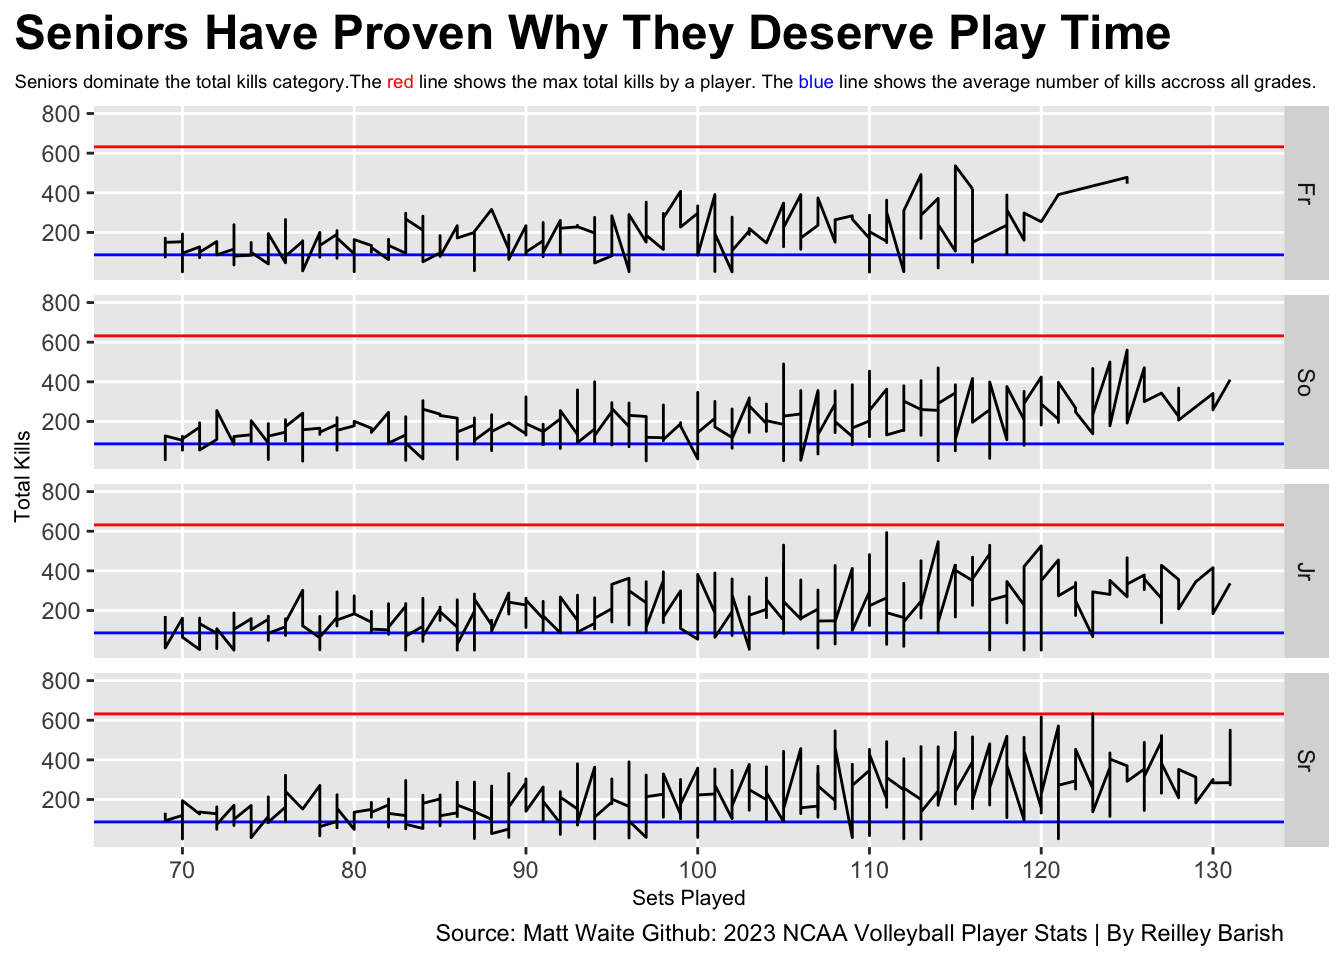
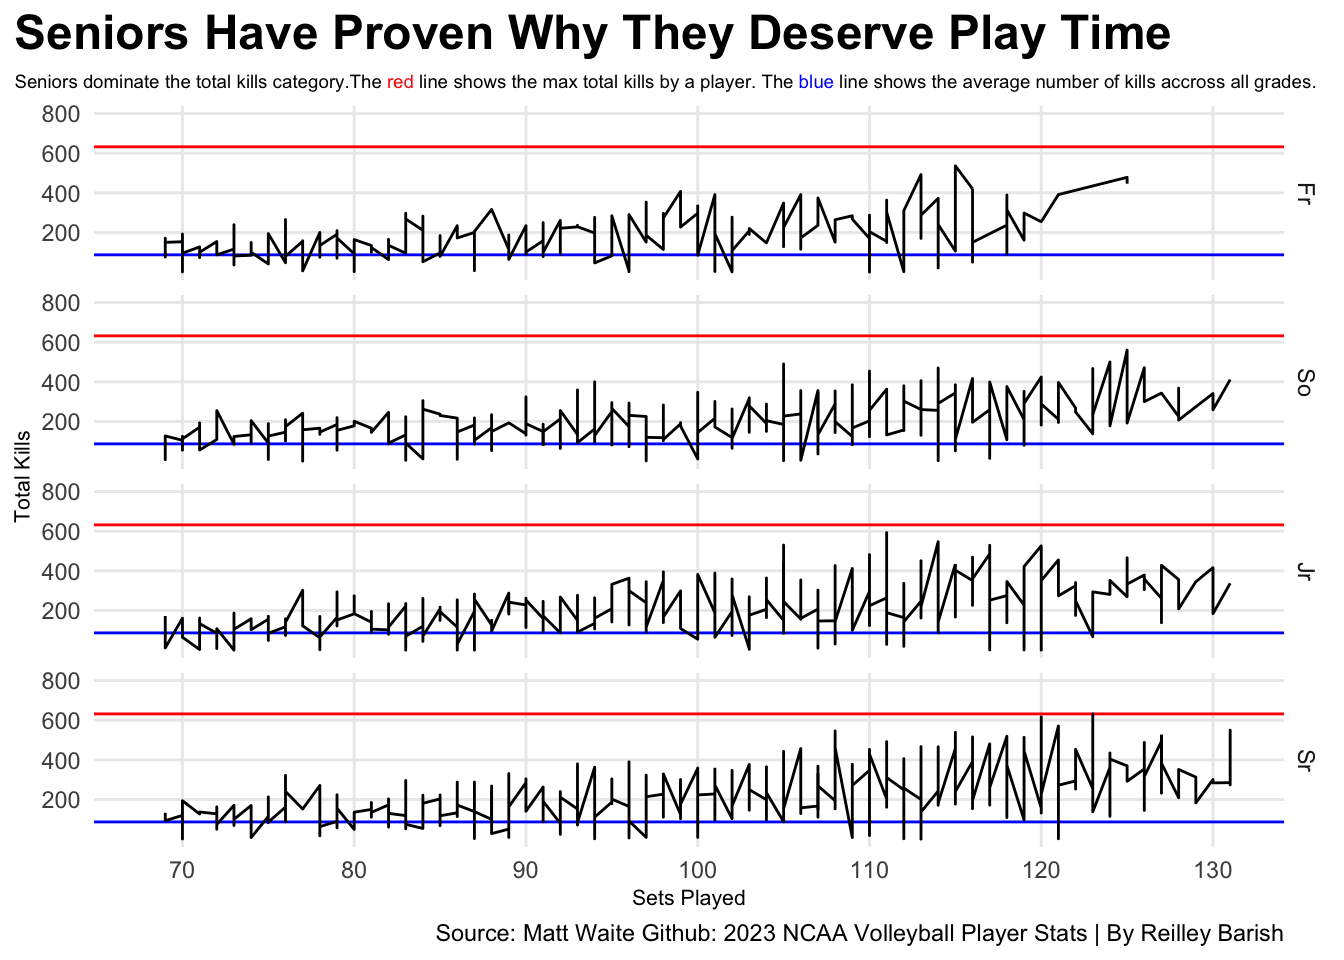
commit

diff --git a/posts/volleyball-players-2023-kills/index.html b/posts/volleyball-players-2023-kills/index.html
@@ -225,7 +225,7 @@ pre > code.sourceCode > span > a:first-child::before { text-decoration: underlin
 <span id="cb1-21"><a href="#cb1-21" aria-hidden="true" tabindex="-1"></a>avgkills <span class="ot">&lt;-</span> data <span class="sc">|&gt;</span> <span class="fu">summarise</span>(<span class="fu">mean</span>(kills))</span>
 <span id="cb1-22"><a href="#cb1-22" aria-hidden="true" tabindex="-1"></a>avgsets <span class="ot">&lt;-</span> data <span class="sc">|&gt;</span> <span class="fu">summarise</span>(<span class="fu">mean</span>(s))</span>
 <span id="cb1-23"><a href="#cb1-23" aria-hidden="true" tabindex="-1"></a></span>
-<span id="cb1-24"><a href="#cb1-24" aria-hidden="true" tabindex="-1"></a>custheme <span class="ot">&lt;-</span> <span class="fu">theme_minimal</span>() <span class="sc">+</span></span>
+<span id="cb1-24"><a href="#cb1-24" aria-hidden="true" tabindex="-1"></a>custheme <span class="ot">&lt;-</span> </span>
 <span id="cb1-25"><a href="#cb1-25" aria-hidden="true" tabindex="-1"></a>  <span class="fu">theme</span>(</span>
 <span id="cb1-26"><a href="#cb1-26" aria-hidden="true" tabindex="-1"></a>    <span class="at">plot.title =</span> <span class="fu">element_text</span>(<span class="at">size =</span> <span class="dv">18</span>, <span class="at">face =</span> <span class="st">"bold"</span>),</span>
 <span id="cb1-27"><a href="#cb1-27" aria-hidden="true" tabindex="-1"></a>    <span class="at">axis.title =</span> <span class="fu">element_text</span>(<span class="at">size =</span> <span class="dv">8</span>),</span>
@@ -291,13 +291,14 @@ pre > code.sourceCode > span > a:first-child::before { text-decoration: underlin
 <span id="cb2-12"><a href="#cb2-12" aria-hidden="true" tabindex="-1"></a>    <span class="at">subtitle=</span><span class="st">"Seniors dominate the total kills category.The &lt;span style = 'color:red;'&gt;red&lt;/span&gt; line shows the max total kills by a player. The &lt;span style = 'color:blue;'&gt;blue&lt;/span&gt; line shows the average number of kills accross all grades."</span>, </span>
 <span id="cb2-13"><a href="#cb2-13" aria-hidden="true" tabindex="-1"></a>    <span class="at">caption=</span><span class="st">"Source: Matt Waite Github: 2023 NCAA Volleyball Player Stats | By Reilley Barish"</span></span>
 <span id="cb2-14"><a href="#cb2-14" aria-hidden="true" tabindex="-1"></a>    )<span class="sc">+</span></span>
-<span id="cb2-15"><a href="#cb2-15" aria-hidden="true" tabindex="-1"></a>  <span class="fu">theme</span>(</span>
-<span id="cb2-16"><a href="#cb2-16" aria-hidden="true" tabindex="-1"></a>    <span class="at">plot.title =</span> <span class="fu">element_text</span>(<span class="at">size =</span> <span class="dv">18</span>, <span class="at">face =</span> <span class="st">"bold"</span>),</span>
-<span id="cb2-17"><a href="#cb2-17" aria-hidden="true" tabindex="-1"></a>    <span class="at">axis.title =</span> <span class="fu">element_text</span>(<span class="at">size =</span> <span class="dv">8</span>),</span>
-<span id="cb2-18"><a href="#cb2-18" aria-hidden="true" tabindex="-1"></a>    <span class="at">plot.subtitle =</span> <span class="fu">element_markdown</span>(<span class="at">size =</span> <span class="dv">7</span>),</span>
-<span id="cb2-19"><a href="#cb2-19" aria-hidden="true" tabindex="-1"></a>    <span class="at">panel.grid.minor =</span> <span class="fu">element_blank</span>(),</span>
-<span id="cb2-20"><a href="#cb2-20" aria-hidden="true" tabindex="-1"></a>    <span class="at">plot.title.position =</span> <span class="st">"plot"</span></span>
-<span id="cb2-21"><a href="#cb2-21" aria-hidden="true" tabindex="-1"></a>  )</span></code><button title="Copy to Clipboard" class="code-copy-button"><i class="bi"></i></button></pre></div>
+<span id="cb2-15"><a href="#cb2-15" aria-hidden="true" tabindex="-1"></a>  <span class="fu">theme_minimal</span>() <span class="sc">+</span></span>
+<span id="cb2-16"><a href="#cb2-16" aria-hidden="true" tabindex="-1"></a>  <span class="fu">theme</span>(</span>
+<span id="cb2-17"><a href="#cb2-17" aria-hidden="true" tabindex="-1"></a>    <span class="at">plot.title =</span> <span class="fu">element_text</span>(<span class="at">size =</span> <span class="dv">18</span>, <span class="at">face =</span> <span class="st">"bold"</span>),</span>
+<span id="cb2-18"><a href="#cb2-18" aria-hidden="true" tabindex="-1"></a>    <span class="at">axis.title =</span> <span class="fu">element_text</span>(<span class="at">size =</span> <span class="dv">8</span>),</span>
+<span id="cb2-19"><a href="#cb2-19" aria-hidden="true" tabindex="-1"></a>    <span class="at">plot.subtitle =</span> <span class="fu">element_markdown</span>(<span class="at">size =</span> <span class="dv">7</span>),</span>
+<span id="cb2-20"><a href="#cb2-20" aria-hidden="true" tabindex="-1"></a>    <span class="at">panel.grid.minor =</span> <span class="fu">element_blank</span>(),</span>
+<span id="cb2-21"><a href="#cb2-21" aria-hidden="true" tabindex="-1"></a>    <span class="at">plot.title.position =</span> <span class="st">"plot"</span></span>
+<span id="cb2-22"><a href="#cb2-22" aria-hidden="true" tabindex="-1"></a>  )</span></code><button title="Copy to Clipboard" class="code-copy-button"><i class="bi"></i></button></pre></div>
 </details>
 <div class="cell-output-display">
 <div>
@@ -322,13 +323,14 @@ pre > code.sourceCode > span > a:first-child::before { text-decoration: underlin
 <span id="cb3-12"><a href="#cb3-12" aria-hidden="true" tabindex="-1"></a>    <span class="at">subtitle=</span><span class="st">"Seniors dominate the total kills category.The &lt;span style = 'color:red;'&gt;red&lt;/span&gt; line shows the max total kills by a player. The &lt;span style = 'color:blue;'&gt;blue&lt;/span&gt; line shows the average number of kills accross all grades."</span> ,</span>
 <span id="cb3-13"><a href="#cb3-13" aria-hidden="true" tabindex="-1"></a>    <span class="at">caption=</span><span class="st">"Source: Matt Waite Github: 2023 NCAA Volleyball Player Stats | By Reilley Barish"</span></span>
 <span id="cb3-14"><a href="#cb3-14" aria-hidden="true" tabindex="-1"></a>    )<span class="sc">+</span></span>
-<span id="cb3-15"><a href="#cb3-15" aria-hidden="true" tabindex="-1"></a>  <span class="fu">theme</span>(</span>
-<span id="cb3-16"><a href="#cb3-16" aria-hidden="true" tabindex="-1"></a>    <span class="at">plot.title =</span> <span class="fu">element_text</span>(<span class="at">size =</span> <span class="dv">18</span>, <span class="at">face =</span> <span class="st">"bold"</span>),</span>
-<span id="cb3-17"><a href="#cb3-17" aria-hidden="true" tabindex="-1"></a>    <span class="at">axis.title =</span> <span class="fu">element_text</span>(<span class="at">size =</span> <span class="dv">8</span>),</span>
-<span id="cb3-18"><a href="#cb3-18" aria-hidden="true" tabindex="-1"></a>    <span class="at">plot.subtitle =</span> <span class="fu">element_markdown</span>(<span class="at">size =</span> <span class="dv">7</span>),</span>
-<span id="cb3-19"><a href="#cb3-19" aria-hidden="true" tabindex="-1"></a>    <span class="at">panel.grid.minor =</span> <span class="fu">element_blank</span>(),</span>
-<span id="cb3-20"><a href="#cb3-20" aria-hidden="true" tabindex="-1"></a>    <span class="at">plot.title.position =</span> <span class="st">"plot"</span></span>
-<span id="cb3-21"><a href="#cb3-21" aria-hidden="true" tabindex="-1"></a>  )</span></code><button title="Copy to Clipboard" class="code-copy-button"><i class="bi"></i></button></pre></div>
+<span id="cb3-15"><a href="#cb3-15" aria-hidden="true" tabindex="-1"></a>  <span class="fu">theme_minimal</span>() <span class="sc">+</span></span>
+<span id="cb3-16"><a href="#cb3-16" aria-hidden="true" tabindex="-1"></a>  <span class="fu">theme</span>(</span>
+<span id="cb3-17"><a href="#cb3-17" aria-hidden="true" tabindex="-1"></a>    <span class="at">plot.title =</span> <span class="fu">element_text</span>(<span class="at">size =</span> <span class="dv">18</span>, <span class="at">face =</span> <span class="st">"bold"</span>),</span>
+<span id="cb3-18"><a href="#cb3-18" aria-hidden="true" tabindex="-1"></a>    <span class="at">axis.title =</span> <span class="fu">element_text</span>(<span class="at">size =</span> <span class="dv">8</span>),</span>
+<span id="cb3-19"><a href="#cb3-19" aria-hidden="true" tabindex="-1"></a>    <span class="at">plot.subtitle =</span> <span class="fu">element_markdown</span>(<span class="at">size =</span> <span class="dv">7</span>),</span>
+<span id="cb3-20"><a href="#cb3-20" aria-hidden="true" tabindex="-1"></a>    <span class="at">panel.grid.minor =</span> <span class="fu">element_blank</span>(),</span>
+<span id="cb3-21"><a href="#cb3-21" aria-hidden="true" tabindex="-1"></a>    <span class="at">plot.title.position =</span> <span class="st">"plot"</span></span>
+<span id="cb3-22"><a href="#cb3-22" aria-hidden="true" tabindex="-1"></a>  )</span></code><button title="Copy to Clipboard" class="code-copy-button"><i class="bi"></i></button></pre></div>
 </details>
 <div class="cell-output-display">
 <div>

diff --git a/index.html b/index.html
@@ -205,7 +205,7 @@ window.Quarto = {
 
 <div class="quarto-listing quarto-listing-container-default" id="listing-listing">
 <div class="list quarto-listing-default">
-<div class="quarto-post image-right" data-index="0" data-categories="dm9sbGV5YmFsbCUyQ25jYWElMkNmaW5hbCUyMGZvdXI=" data-listing-date-sort="1743483600000" data-listing-file-modified-sort="1744687766388" data-listing-date-modified-sort="NaN" data-listing-reading-time-sort="11" data-listing-word-count-sort="2110">
+<div class="quarto-post image-right" data-index="0" data-categories="dm9sbGV5YmFsbCUyQ25jYWElMkNmaW5hbCUyMGZvdXI=" data-listing-date-sort="1743483600000" data-listing-file-modified-sort="1744691712962" data-listing-date-modified-sort="NaN" data-listing-reading-time-sort="11" data-listing-word-count-sort="2115">
 <div class="thumbnail">
 <p><a href="./posts/volleyball-players-2023-kills/index.html" class="no-external"></a></p><a href="./posts/volleyball-players-2023-kills/index.html" class="no-external">
 <p><img loading="lazy" src="./posts/volleyball-players-2023-kills/image.png" class="thumbnail-image"></p>
